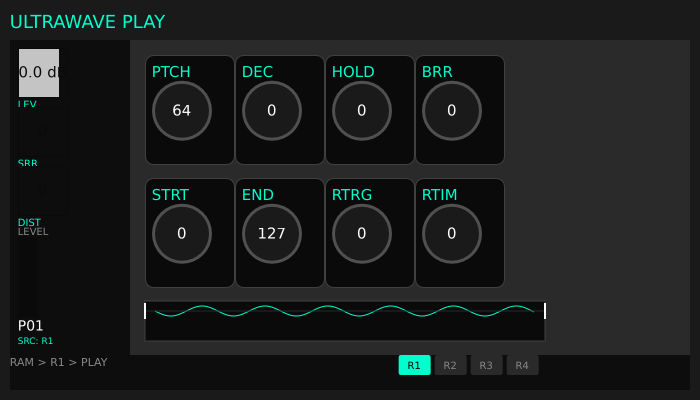
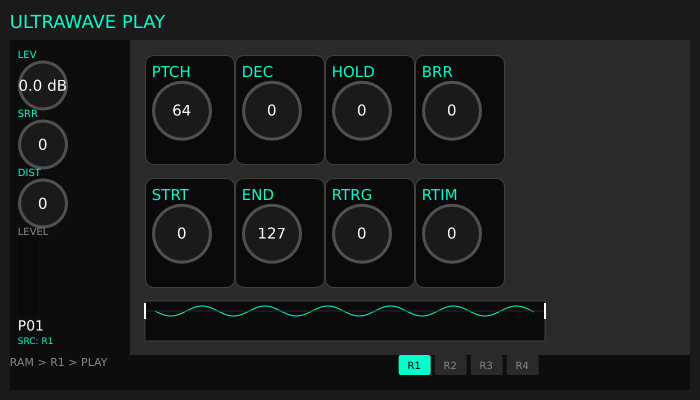
feat(gui): make sidebar knobs circular rotary style
Convert LEV, SRR, DIST knobs in sidebar from vertical sliders
to circular rotary controls matching main grid styling
Labels now appear above knobs for consistency

Relates to: ultrawave-38c

Changed region(s): [[0.0, 0.12, 0.12, 0.57], [0.09, 0.48, 0.12, 0.54], [0.09, 0.33, 0.12, 0.39]]

diff --git a/src/standalone/play_editor.rs b/src/standalone/play_editor.rs
@@ -128,30 +128,36 @@ pub fn create(
             HStack::new(cx, |cx| {
                 VStack::new(cx, |cx| {
                     VStack::new(cx, |cx| {
-                        ParamSlider::new(cx, EditorData::params, |p| &p.lev)
-                            .width(Pixels(50.0))
-                            .height(Pixels(50.0));
                         Label::new(cx, "LEV")
                             .color(Color::rgb(0, 255, 204))
-                            .font_size(10.0);
+                            .font_size(10.0)
+                            .class("knob-label");
+                        ParamSlider::new(cx, EditorData::params, |p| &p.lev)
+                            .width(Pixels(50.0))
+                            .height(Pixels(50.0))
+                            .class("knob");
                     });
 
                     VStack::new(cx, |cx| {
-                        ParamSlider::new(cx, EditorData::params, |p| &p.srr)
-                            .width(Pixels(50.0))
-                            .height(Pixels(50.0));
                         Label::new(cx, "SRR")
                             .color(Color::rgb(0, 255, 204))
-                            .font_size(10.0);
+                            .font_size(10.0)
+                            .class("knob-label");
+                        ParamSlider::new(cx, EditorData::params, |p| &p.srr)
+                            .width(Pixels(50.0))
+                            .height(Pixels(50.0))
+                            .class("knob");
                     });
 
                     VStack::new(cx, |cx| {
-                        ParamSlider::new(cx, EditorData::params, |p| &p.dist)
-                            .width(Pixels(50.0))
-                            .height(Pixels(50.0));
                         Label::new(cx, "DIST")
                             .color(Color::rgb(0, 255, 204))
-                            .font_size(10.0);
+                            .font_size(10.0)
+                            .class("knob-label");
+                        ParamSlider::new(cx, EditorData::params, |p| &p.dist)
+                            .width(Pixels(50.0))
+                            .height(Pixels(50.0))
+                            .class("knob");
                     });
 
                     Label::new(cx, "LEVEL")

diff --git a/src/standalone/record_editor.rs b/src/standalone/record_editor.rs
@@ -120,30 +120,36 @@ pub fn create(
             HStack::new(cx, |cx| {
                 VStack::new(cx, |cx| {
                     VStack::new(cx, |cx| {
-                        ParamSlider::new(cx, EditorData::params, |p| &p.lev)
-                            .width(Pixels(50.0))
-                            .height(Pixels(50.0));
                         Label::new(cx, "LEV")
                             .color(Color::rgb(0, 255, 204))
-                            .font_size(10.0);
+                            .font_size(10.0)
+                            .class("knob-label");
+                        ParamSlider::new(cx, EditorData::params, |p| &p.lev)
+                            .width(Pixels(50.0))
+                            .height(Pixels(50.0))
+                            .class("knob");
                     });
 
                     VStack::new(cx, |cx| {
-                        ParamSlider::new(cx, EditorData::params, |p| &p.srr)
-                            .width(Pixels(50.0))
-                            .height(Pixels(50.0));
                         Label::new(cx, "SRR")
                             .color(Color::rgb(0, 255, 204))
-                            .font_size(10.0);
+                            .font_size(10.0)
+                            .class("knob-label");
+                        ParamSlider::new(cx, EditorData::params, |p| &p.srr)
+                            .width(Pixels(50.0))
+                            .height(Pixels(50.0))
+                            .class("knob");
                     });
 
                     VStack::new(cx, |cx| {
-                        ParamSlider::new(cx, EditorData::params, |p| &p.dist)
-                            .width(Pixels(50.0))
-                            .height(Pixels(50.0));
                         Label::new(cx, "DIST")
                             .color(Color::rgb(0, 255, 204))
-                            .font_size(10.0);
+                            .font_size(10.0)
+                            .class("knob-label");
+                        ParamSlider::new(cx, EditorData::params, |p| &p.dist)
+                            .width(Pixels(50.0))
+                            .height(Pixels(50.0))
+                            .class("knob");
                     });
 
                     Label::new(cx, "LEVEL")
